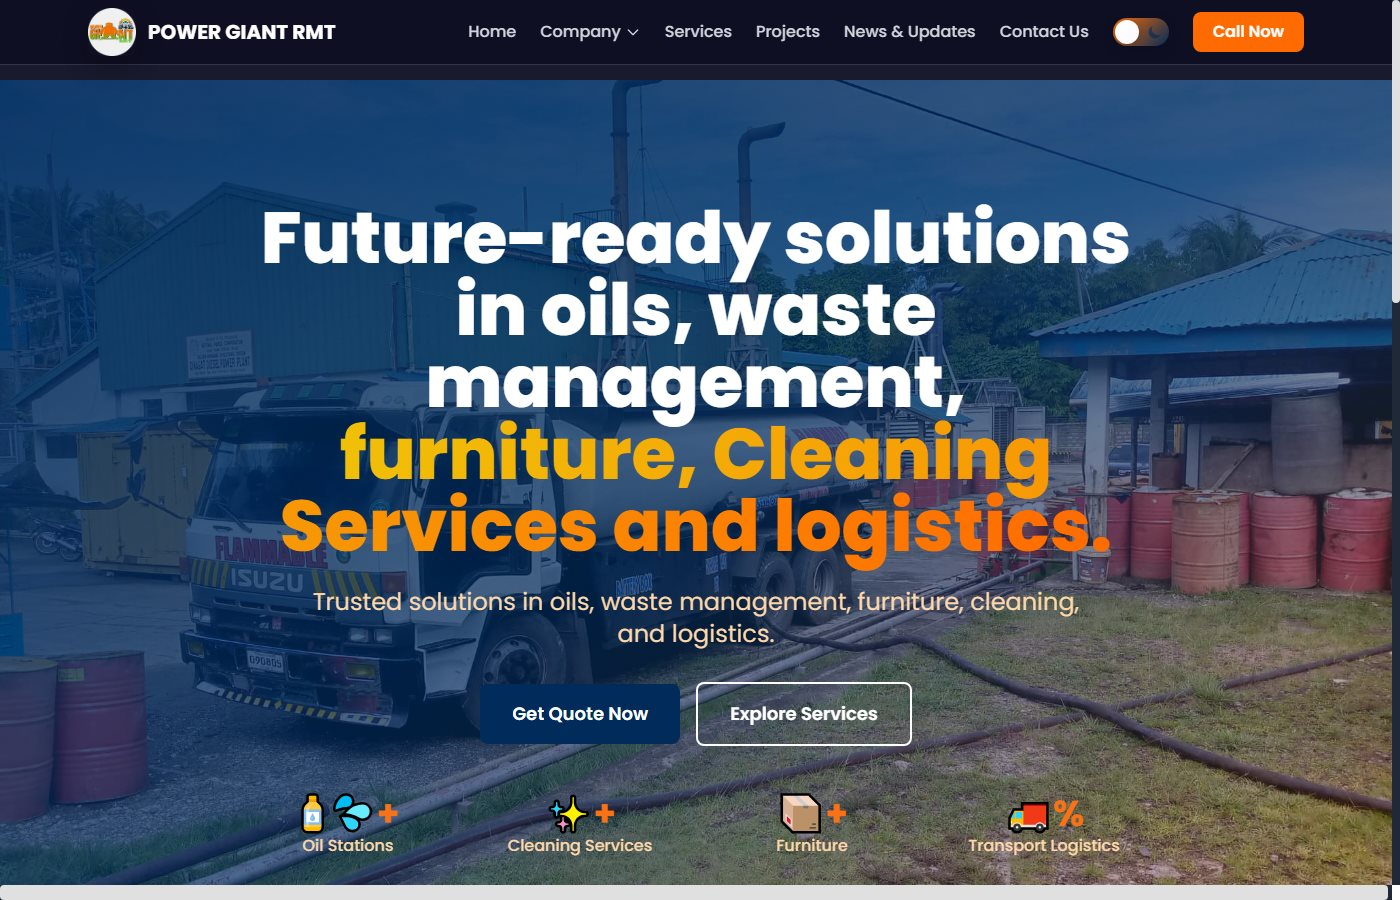
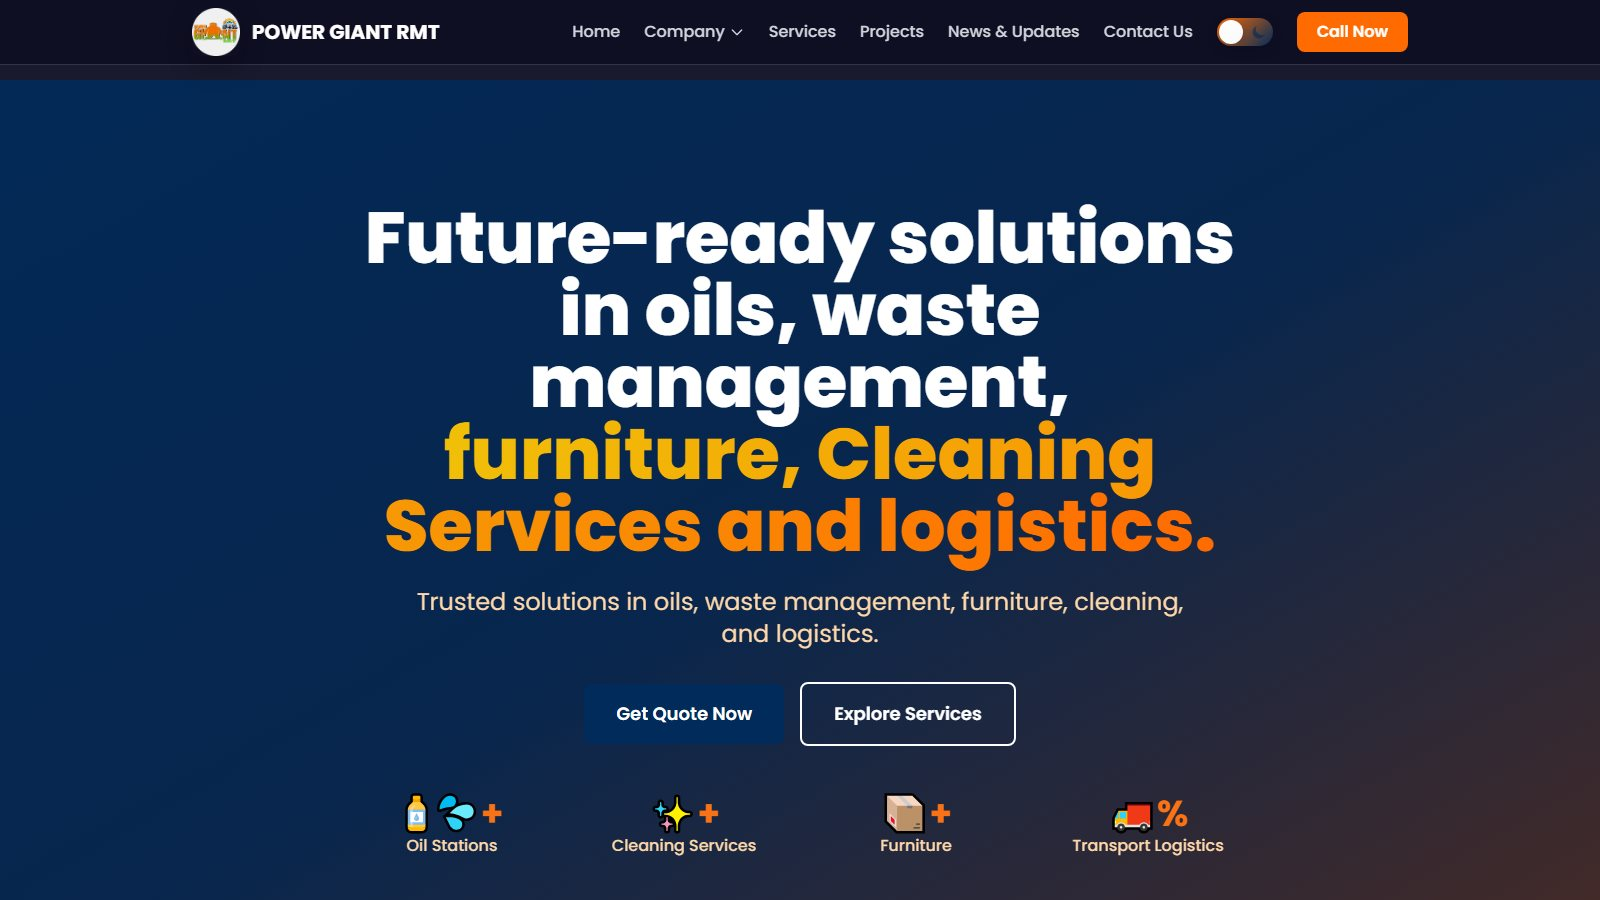
Power Giant case study: professional live captures; fix chatbot and stack modal on mobile Safari
- fresh cover, Project Categories, and Featured Projects shots from the
  recovered live site replace the stretched full-page image
- chatbot: 16px input (stops iOS zoom-on-focus), dvh heights, full-width
  panel under 480px
- stack modal: transform-based centering (margin:auto is unreliable for
  dialog on iOS), viewport-clamped width, scrollable max-height

diff --git a/css/style.css b/css/style.css
@@ -460,8 +460,11 @@ body {
 .stack-pop:hover .stack-pop__arrow { transform: translateX(3px); }
 
 .stack-modal {
-  position: fixed; inset: 0; margin: auto;
-  width: min(340px, 90vw); height: fit-content;
+  /* explicit transform centering — reliable on iOS Safari, unlike margin:auto */
+  position: fixed; top: 50%; left: 50%; margin: 0;
+  transform: translate(-50%, -50%);
+  width: min(340px, calc(100vw - 2.5rem));
+  max-height: 80vh; max-height: 80dvh; overflow-y: auto;
   border: 1px solid var(--line); border-radius: 16px;
   background: var(--paper-2); color: var(--ink);
   padding: 1.75rem 2rem; font-family: var(--font-body);
@@ -469,7 +472,8 @@ body {
 }
 .stack-modal[open] { animation: modalIn 0.25s ease; }
 @keyframes modalIn {
-  from { opacity: 0; transform: translateY(12px) scale(0.97); }
+  from { opacity: 0; transform: translate(-50%, -46%) scale(0.97); }
+  to { opacity: 1; transform: translate(-50%, -50%) scale(1); }
 }
 .stack-modal::backdrop {
   background: rgba(0, 0, 0, 0.45);
@@ -766,10 +770,20 @@ body {
   position: fixed; right: 1.5rem; bottom: 1.5rem; z-index: 95;
   width: min(320px, calc(100vw - 2rem));
   height: min(440px, calc(100vh - 7rem));
+  /* dvh tracks the real visible area on iOS (vh includes the hidden toolbar) */
+  height: min(440px, calc(100dvh - 7rem));
   display: flex; flex-direction: column;
   background: var(--paper); border: 1.5px solid var(--ink);
   border-radius: 16px; box-shadow: 8px 8px 0 var(--accent-soft);
   overflow: hidden;
+}
+@media (max-width: 480px) {
+  .bot__panel {
+    left: 0.75rem; right: 0.75rem; bottom: 0.75rem; width: auto;
+    height: min(480px, calc(100dvh - 5.5rem));
+  }
+  /* 16px stops iOS Safari from auto-zooming the page when the input is focused */
+  .bot__input { font-size: 16px; }
 }
 
 .bot__head {

diff --git a/projects/power-giant-rmt.html b/projects/power-giant-rmt.html
@@ -72,9 +72,14 @@
       <li><strong>Client change requests</strong> — implemented requirements and system improvements as the company's needs evolved.</li>
     </ul>
 
-    <figure class="case__shot case__shot--scroll">
-      <img src="../assets/powergiant-full.jpg" alt="Power Giant RMT full landing page" loading="lazy" />
-      <figcaption>Full landing page — scroll to explore</figcaption>
+    <figure class="case__shot">
+      <img src="../assets/powergiant-categories.jpg" alt="Project categories: hazardous waste, furniture, oil fuel infrastructure, cleaning, logistics" loading="lazy" />
+      <figcaption>Five service lines, one catalog — project categories driven by the database</figcaption>
+    </figure>
+
+    <figure class="case__shot">
+      <img src="../assets/powergiant-projects.jpg" alt="Featured projects grid with completed project cards" loading="lazy" />
+      <figcaption>Featured projects — client-managed entries rendered from the backend</figcaption>
     </figure>
 
     <h2>The result</h2>

diff --git a/sw.js b/sw.js
@@ -2,7 +2,7 @@
 // Service worker — offline cache for the portfolio (PWA)
 // Bump CACHE version to force clients to refetch everything.
 // ============================================================
-const CACHE = "rjr-portfolio-v18";
+const CACHE = "rjr-portfolio-v19";
 
 const CORE = [
   "./",